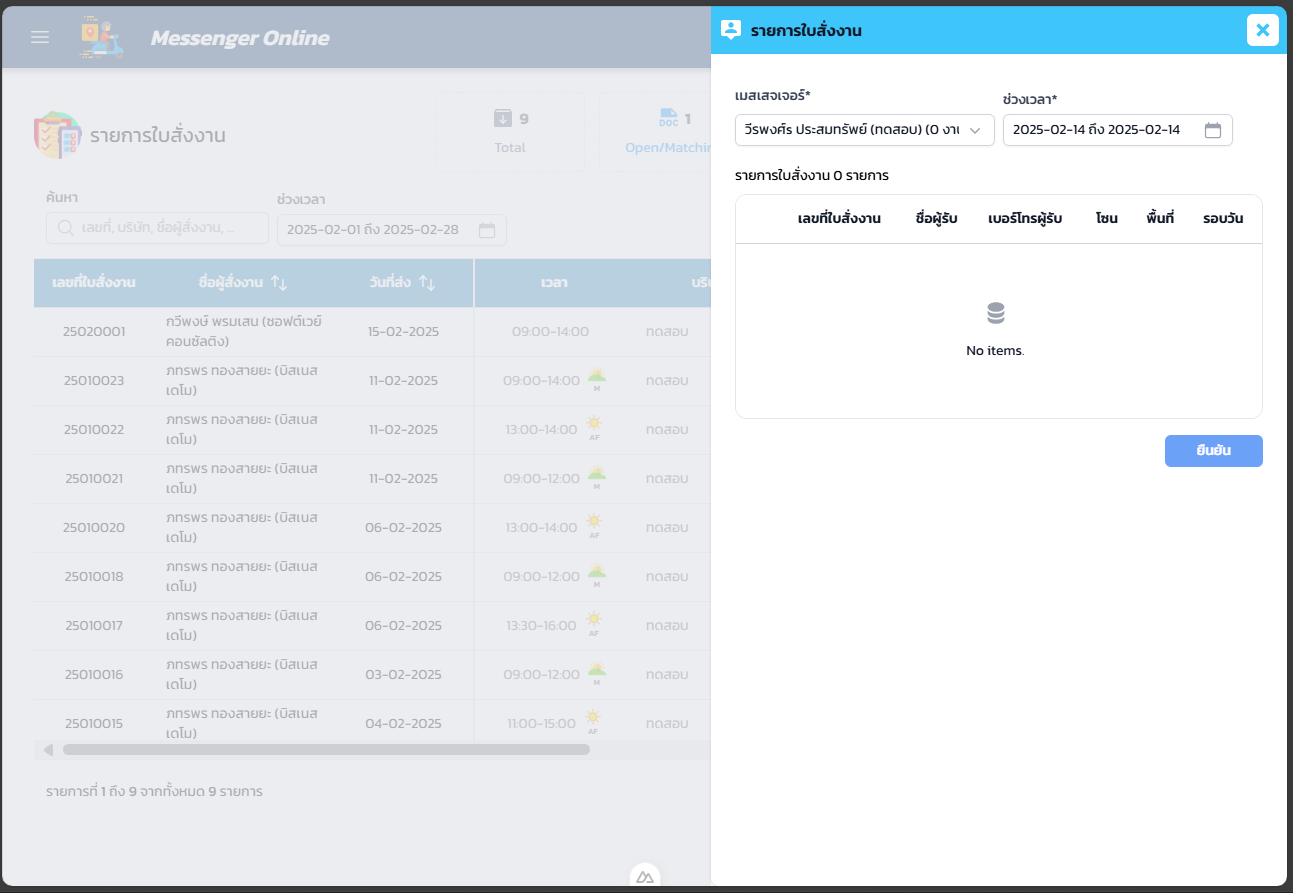
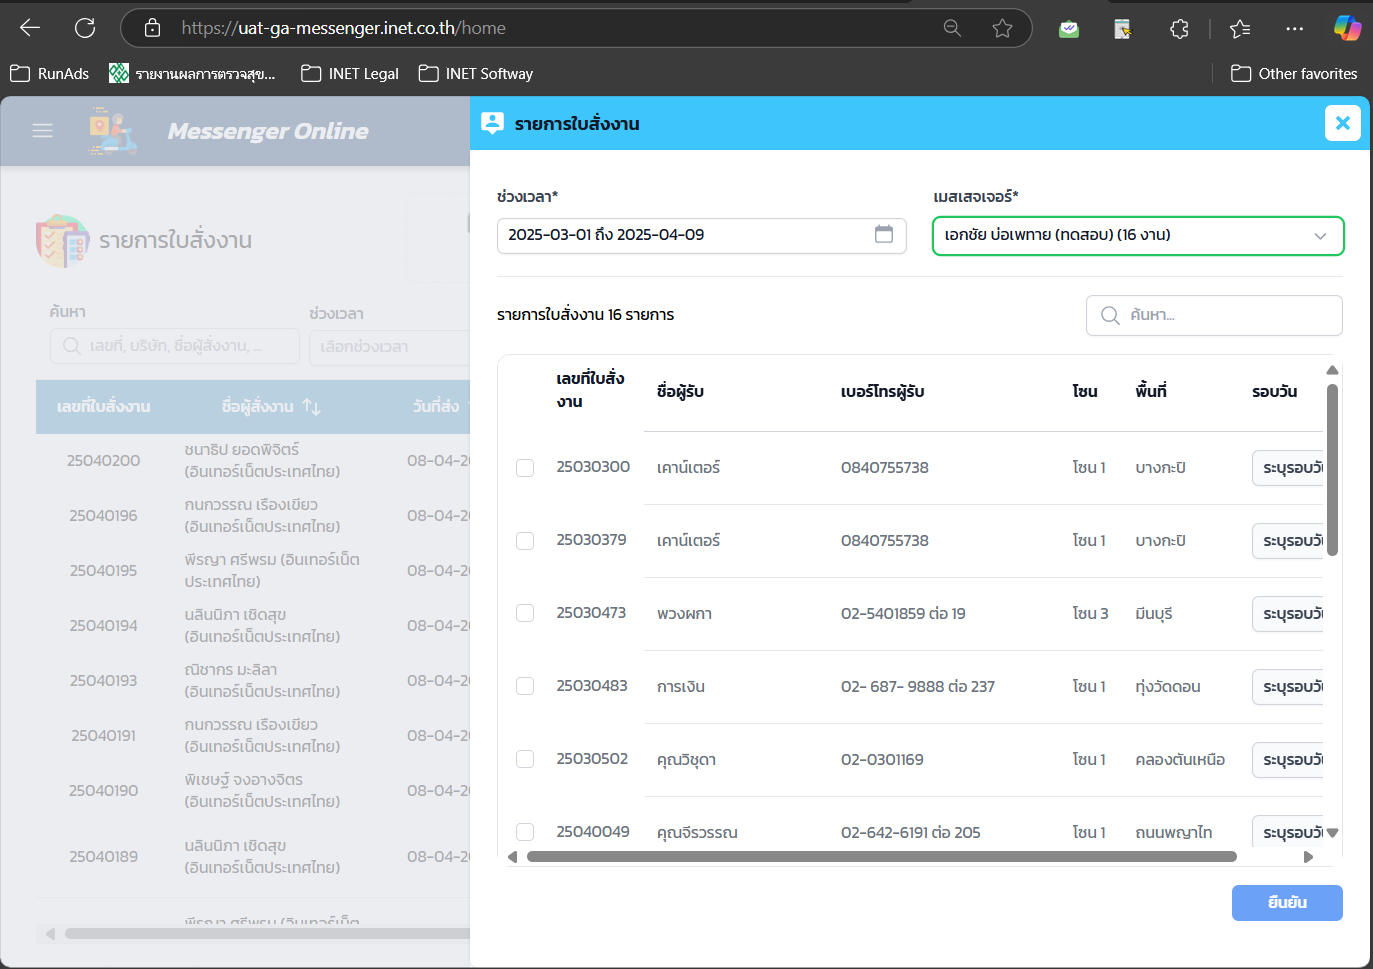
[UPDATE] : update thumbnail images and adjust Modal layout for improved visual consistency and user experience.

diff --git a/app/works/Modal.tsx b/app/works/Modal.tsx
@@ -89,9 +89,7 @@ const Modal: React.FC<{
   return (
     <div className="fixed inset-0 flex items-center justify-center bg-black/70 backdrop-blur-md z-50 animate-fadeIn">
       {/* Modal Content */}
-      <div className="relative w-full h-screen md:w-4/5 md:h-5/6 lg:w-3/5 lg:max-h-[85vh] bg-neutral-100 dark:bg-neutral-800 shadow-lg p-6 md:rounded-lg overflow-hidden flex flex-col">
-        {/* Close Button */}
-        <div className="absolute md:top-4 top-12 right-4 z-50">
+      <div className="absolute md:top-4 top-12 right-4 z-50">
           <button
             className="hover:opacity-70 p-2 bg-gray-200 dark:bg-gray-700 rounded-full"
             onClick={onClose}
@@ -101,6 +99,7 @@ const Modal: React.FC<{
           </button>
         </div>
 
+      <div className="relative w-full h-screen md:w-4/5 md:h-5/6 lg:max-h-[85vh] bg-transparent overflow-hidden flex flex-col">
         {/* แสดงเลขหน้า (custom pagination) */}
         <div className="absolute bottom-2 left-1/2 transform -translate-x-1/2 bg-gray-200 dark:bg-gray-700 px-4 py-2 rounded-full z-40">
           <span className="text-sm font-medium">
